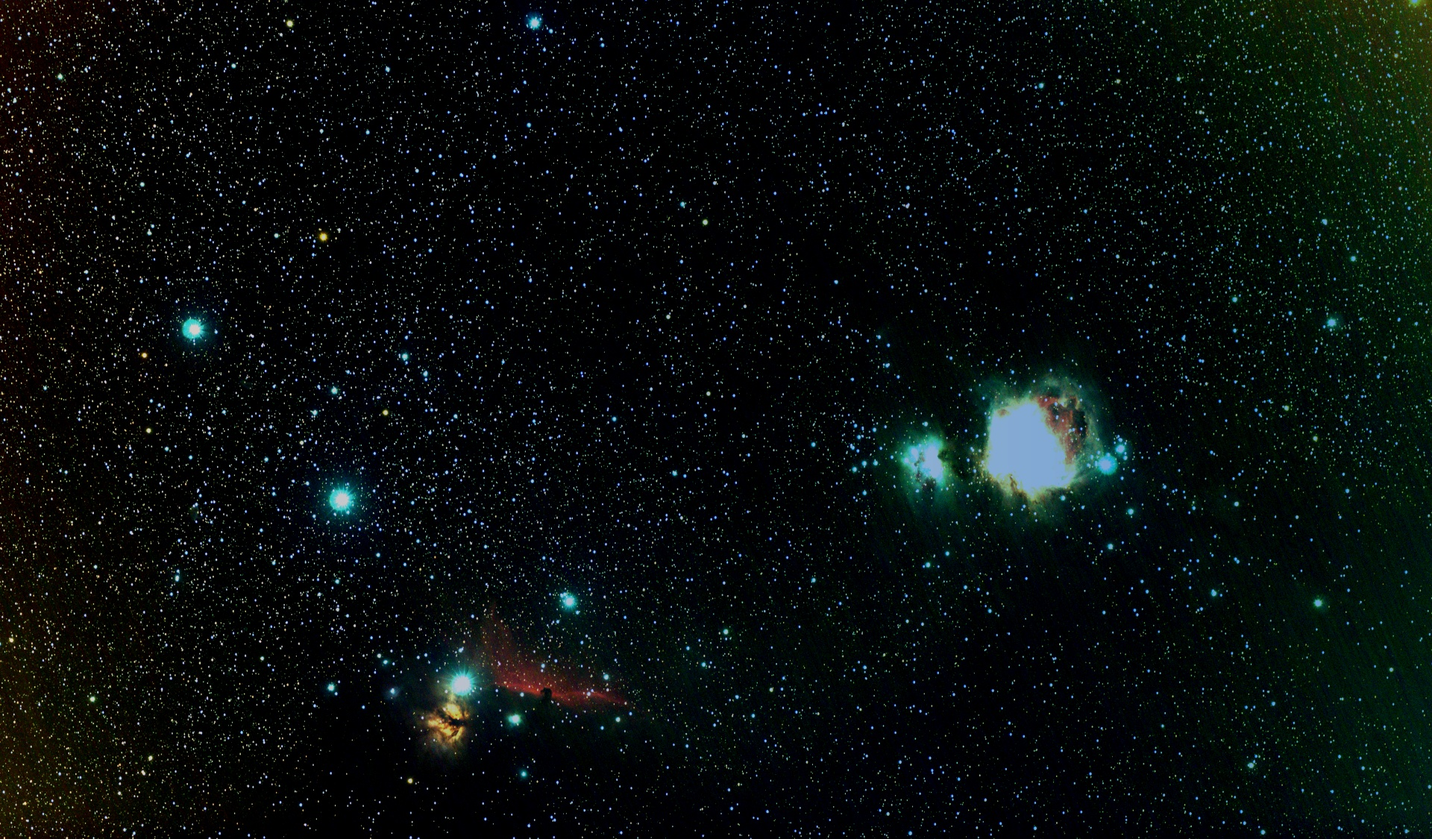
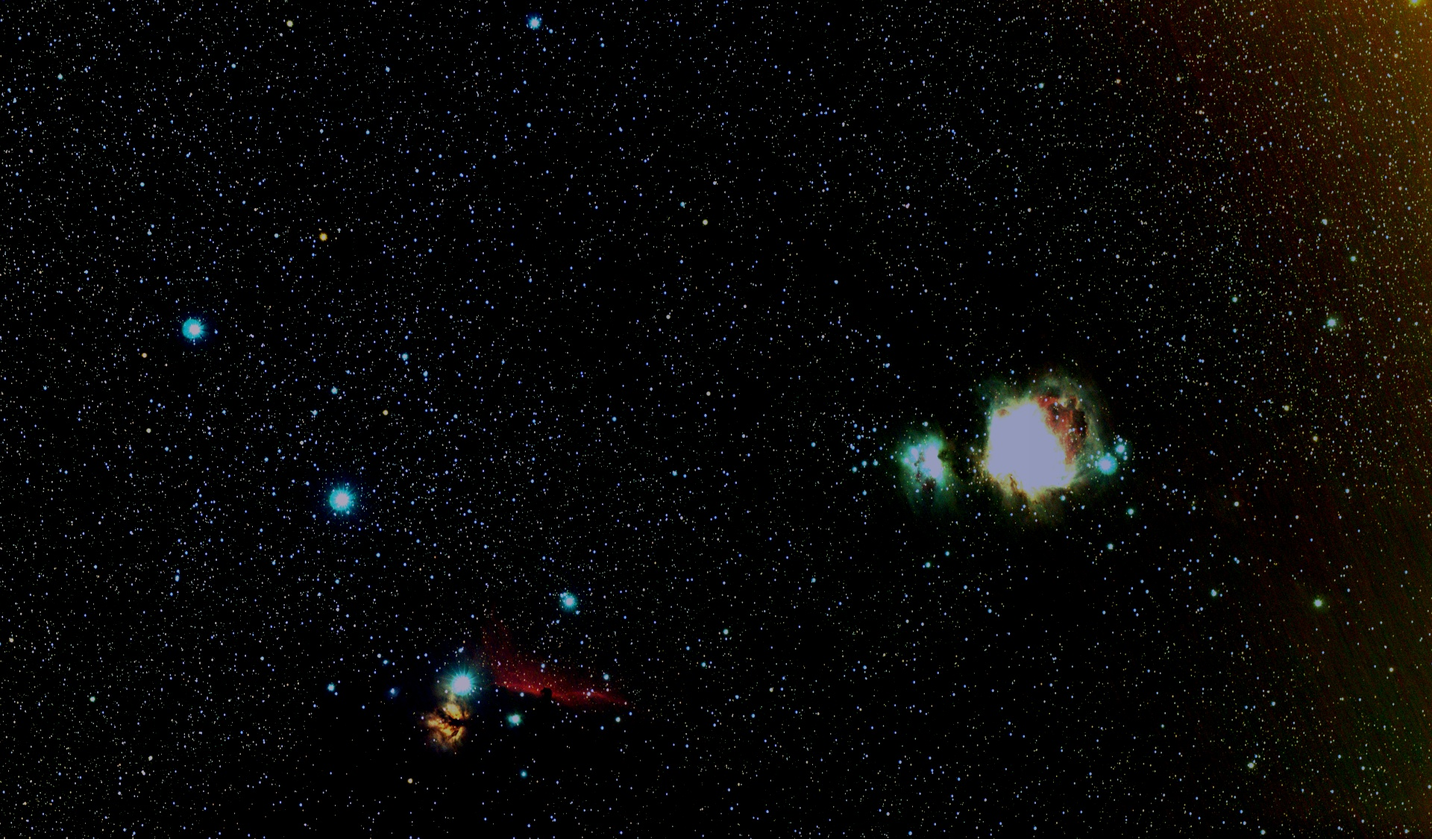
Ajout d'un gradient à 12 points
Le gradient fonctionne à 80%

diff --git a/gradient_12_points.py b/gradient_12_points.py
@@ -74,35 +74,23 @@ def remove_light_pollution(image_color, image_gray, num_columns, threshold):
                 ratio4 = (x - left_x4) / (right_x4 - left_x4)
                 
                 ###TODO - Faire tous les interpalated gauche - 1 tier - 2 tiers - right
-                interpolated_color1 = (1 - ratio1) * color_pixel_left1 + ratio1 * color_pixel_right1
-                interpolated_color2 = (1 - ratio2) * color_pixel_left2 + ratio2 * color_pixel_right2
-                interpolated_color3 = (1 - ratio3) * color_pixel_left3 + ratio3 * color_pixel_right3
-                interpolated_color4 = (1 - ratio4) * color_pixel_left4 + ratio4 * color_pixel_right4
+                interpolated_color1 = (1 - ratio1) * color_pixel_left1 + ratio1 * color_pixel_one_third1
+                interpolated_color2 = (1 - ratio2) * color_pixel_left2 + ratio2 * color_pixel_one_third2
+                interpolated_color3 = (1 - ratio3) * color_pixel_left3 + ratio3 * color_pixel_one_third3
+                interpolated_color4 = (1 - ratio4) * color_pixel_left4 + ratio4 * color_pixel_one_third4
                 
-                interpolated_color5 = (1 - ratio1) * color_pixel_left1 + ratio1 * color_pixel_one_third1
-                interpolated_color6 = (1 - ratio2) * color_pixel_left2 + ratio2 * color_pixel_one_third2
-                interpolated_color7 = (1 - ratio3) * color_pixel_left3 + ratio3 * color_pixel_one_third3
-                interpolated_color8 = (1 - ratio4) * color_pixel_left4 + ratio4 * color_pixel_one_third4
+                interpolated_color5 = (1 - ratio1) * color_pixel_one_third1 + ratio1 * color_pixel_two_thirds1
+                interpolated_color6 = (1 - ratio2) * color_pixel_one_third2 + ratio2 * color_pixel_two_thirds2
+                interpolated_color7 = (1 - ratio3) * color_pixel_one_third3 + ratio3 * color_pixel_two_thirds3
+                interpolated_color8 = (1 - ratio4) * color_pixel_one_third4 + ratio4 * color_pixel_two_thirds4
                 
-                interpolated_color9 = (1 - ratio1) * color_pixel_left1 + ratio1 * color_pixel_two_thirds1
-                interpolated_color10 = (1 - ratio2) * color_pixel_left2 + ratio2 * color_pixel_two_thirds2
-                interpolated_color11 = (1 - ratio3) * color_pixel_left3 + ratio3 * color_pixel_two_thirds3
-                interpolated_color12 = (1 - ratio4) * color_pixel_left4 + ratio4 * color_pixel_two_thirds4
-                
+                interpolated_color9 = (1 - ratio1) * color_pixel_two_thirds1 + ratio1 * color_pixel_right1
+                interpolated_color10 = (1 - ratio2) * color_pixel_two_thirds2 + ratio2 * color_pixel_right2
+                interpolated_color11 = (1 - ratio3) * color_pixel_two_thirds3 + ratio3 * color_pixel_right3
+                interpolated_color12 = (1 - ratio4) * color_pixel_two_thirds4 + ratio4 * color_pixel_right4
                 
 
-                interpolated_color = (interpolated_color1 + interpolated_color2 + interpolated_color3 + interpolated_color4) / 4
-                gradient_linear[y, x] = interpolated_color
-
-                # Check if any interpolated_color is None
-                if (interpolated_color1 is not None and
-                    interpolated_color2 is not None and
-                    interpolated_color3 is not None and
-                    interpolated_color4 is not None):
-                    interpolated_color = (interpolated_color1 + interpolated_color2 + interpolated_color3 + interpolated_color4) / 4
-                else:
-                    interpolated_color = (interpolated_color1 or interpolated_color2 or interpolated_color3 or interpolated_color4)
-
+                interpolated_color = (interpolated_color1 + interpolated_color2 + interpolated_color3 + interpolated_color4 + interpolated_color5 + interpolated_color6 + interpolated_color7 + interpolated_color8 + interpolated_color9 + interpolated_color10 + interpolated_color11 + interpolated_color12) / 12
                 gradient_linear[y, x] = interpolated_color
 
         cv2.imwrite('images/gradient_12_points.jpg', gradient_linear)
@@ -116,7 +104,7 @@ def remove_light_pollution(image_color, image_gray, num_columns, threshold):
         return image_color  # Return the original image
 
 # Load the grayscale image
-image_gray = cv2.imread('images/niveau_de_gris.jpg', cv2.IMREAD_GRAYSCALE)
+image_gray = cv2.imread('images/barnard_stacked_gradient.png', cv2.IMREAD_GRAYSCALE)
 
 # Load the color image
 image_color = cv2.imread('images/barnard_stacked_gradient.png')
@@ -126,7 +114,7 @@ if image_gray is None or image_color is None:
     print("Failed to load one or more images.")
 else:
     num_columns_to_check = 1
-    threshold_value = 10
+    threshold_value = 128
 
     depolluted_image = remove_light_pollution(image_color, image_gray, num_columns_to_check, threshold_value)
 
